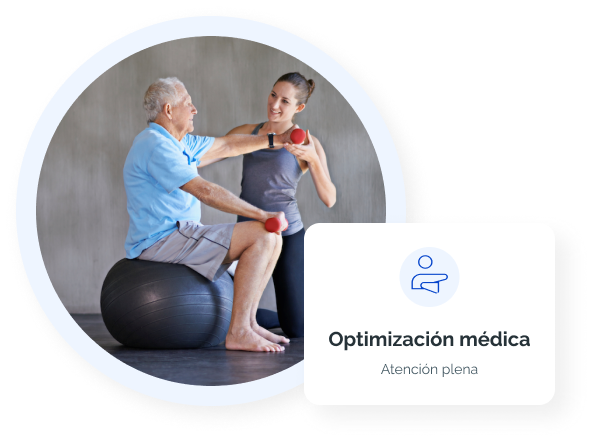
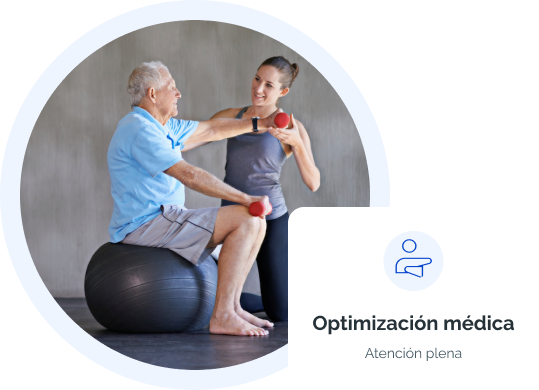
About us section responsive done, also adjust styles in navbar now ok

Changed region(s): [[0.0297, 0.0308, 0.9499, 0.9538], [0.6827, 0.5538, 0.8015, 0.7077], [0.6827, 0.8923, 0.8609, 0.9231]]

diff --git a/pages/LandinPage.jsx b/pages/LandinPage.jsx
@@ -1,16 +1,18 @@
 import NavBar from "@/components/NavBar";
+import HeroCard from "@/components/HeroCard";
 import clsx from "clsx";
 
 export default function LandinPage() {
   return (
-    <main className="bg-background h-screen w-screen">
+    <main className="bg-background h-full w-full">
       <NavBar />
       <section
         id="Hero-Section-1"
         className={clsx(
           "sm:flex sm:flex-row  min-[980px]:justify-between",
-          "px-4 pt-5",
-          "sm:px-14 min-[980px]:px-20"
+          "px-4 pt-5 pb-4",
+          "sm:px-14 min-[980px]:px-20",
+          "lg:max-w-[1440px] lg:m-auto"
         )}
       >
         <div
@@ -19,7 +21,7 @@ export default function LandinPage() {
         >
           <div className={clsx("flex flex- col justify-between items-center")}>
             <div className={clsx("min-[980px]:max-w-[910px]")}>
-              <span
+              <h1
                 className={clsx(
                   "font-semibold text-green_title text-[20px] tracking-[2px]",
                   "sm:text-[38px] sm:tracking-[4px]",
@@ -27,8 +29,8 @@ export default function LandinPage() {
                 )}
               >
                 El perfecto aliado para{" "}
-              </span>
-              <span
+              </h1>
+              <h1
                 className={clsx(
                   "font-extrabold text-blue_button text-[20px] tracking-[2px]",
                   "sm:text-[38px] sm:tracking-[4px]",
@@ -36,7 +38,7 @@ export default function LandinPage() {
                 )}
               >
                 administrar tu Consultorio
-              </span>
+              </h1>
             </div>
             <img
               className={clsx("drop-shadow-md", "max-h-[136px]", "sm:hidden")}
@@ -97,7 +99,7 @@ export default function LandinPage() {
           src="assets/img-doctor-heroSection.png"
           alt="doctor-image"
         />
-        <button
+        {/* <button
           className={clsx(
             "hidden min-[980px]:block",
             "text-white font-semibold text-[14px]",
@@ -107,13 +109,13 @@ export default function LandinPage() {
           )}
         >
           ¡Comienza ahora!
-        </button>
+        </button> */}
       </section>
       <section
         id="Hero-Section-2"
         className={clsx(
           "flex flex-col items-center gap-2",
-          "px-4 pt-5",
+          "px-4 py-4",
           "sm:px-14 min-[980px]:px-20",
           "divide-y-2 divide-green_button"
         )}
@@ -142,6 +144,132 @@ export default function LandinPage() {
           >
             Simplifica el seguimiento y la gestión de casos médicos
           </span>
+        </div>
+      </section>
+      <section
+        id="Hero-Section-3"
+        className={clsx(
+          "px-4 py-4 sm:px-14 min-[980px]:px-20",
+          "flex flex-col gap-5 sm:flex-row sm:justify-center"
+        )}
+      >
+        <HeroCard
+          name={"Expediente Médico"}
+          description={
+            "Digitaliza el Expediente Medico de tus pacientes y accede a él en cualquier momento"
+          }
+          icon={"assets/icons/newspaper-icon.svg"}
+        />
+        <HeroCard
+          name={"Agenda"}
+          description={
+            "Genera y visualiza tus citas, así como tus pacientes sin peder ningún detalle"
+          }
+          icon={"assets/icons/calendar-icon.svg"}
+        />
+        <HeroCard
+          name={"Tratamiento"}
+          description={
+            "Comparte los tratamientos con tus pacientes que podrán visualizar desde su perfil."
+          }
+          icon={"assets/icons/medkit-icon.svg"}
+        />
+      </section>
+      <section
+        id="about-us"
+        className={clsx("flex flex-col items-center", "py-4")}
+      >
+        <h2
+          className={clsx(
+            "text-xl text-green_title tracking-[2px] font-semibold pt-4 pb-5",
+            "sm:text-[38px]"
+          )}
+        >
+          Sobre Nosotros
+        </h2>
+        <div className={clsx("bg-white w-full", "lg:flex lg:justify-center")}>
+          <div
+            className={clsx(
+              "flex flex-col items-center",
+              "px-4 py-8 sm:px-14 min-[980px]:px-20",
+              "min-[980px]:flex-row lg:max-w-[1280px]"
+            )}
+          >
+            <div
+              className={clsx(
+                "flex flex-col items-center gap-4",
+                "min-[980px]:max-w-[679px] "
+              )}
+            >
+              <div className={clsx("text-center")}>
+                <span
+                  className={clsx(
+                    "text-[14px] sm:text-base min-[980px]:text-[22px] text-blue_button font-medium"
+                  )}
+                >
+                  Kode
+                </span>
+                <span
+                  className={clsx(
+                    "text-[14px] sm:text-base min-[980px]:text-[22px] text-blue_button font-bold"
+                  )}
+                >
+                  Clinic{" "}
+                </span>
+                <span
+                  className={clsx(
+                    "text-[14px] sm:text-base min-[980px]:text-[22px] text-blue_gray-700 font-medium"
+                  )}
+                >
+                  es una plataforma diseñada para especialistas del sector salud
+                  con herramientas que les ayudan a administrar la documentación
+                  de sus pacientes
+                </span>
+              </div>
+              <span
+                className={clsx(
+                  "text-[14px] sm:text-base min-[980px]:text-[22px] text-blue_gray-700 font-medium text-center"
+                )}
+              >
+                Actualmente contamos con el Módulo de Fisioterápia y seguimos
+                trabajando para poner a tu disposición muchos otros
+              </span>
+              <span
+                className={clsx(
+                  "text-[14px] sm:text-base min-[980px]:text-[22px] text-blue_gray-700 font-bold text-center"
+                )}
+              >
+                ¿Qué esperas? Registrate y forma parte de la comunidad
+              </span>
+
+              <button
+                className={clsx(
+                  "text-blue_button font-semibold text-[14px] min-[980px]:text-xl",
+                  "border-2 border-blue_button rounded-full",
+                  "max-w-[327px] px-4 py-2 max-h-[40px] sm:max-h-[140px] min-[980px]:max-h-[198px]",
+                  "sm:max-w-[156px] min-[980px]:max-w-[222px]"
+                )}
+              >
+                ¡Comienza ahora!
+              </button>
+            </div>
+            <div className={clsx("py-4 pl-5")}>
+              <img
+                className={clsx("max-h-[188px] drop-shadow-md", "sm:hidden")}
+                src="assets/img-aboutUsSection-mobile.png"
+                alt="sobre nosotros"
+              />
+              <img
+                className={clsx(
+                  "max-h-[300px] drop-shadow-md",
+                  "hidden sm:block",
+                  "min-[980px]:min-w-[539px] min-[980px]:min-h-[390px]"
+                )}
+                src="assets/img-aboutUsSection.png"
+                alt="sobre nosotros"
+              />
+            </div>
+          </div>
         </div>
       </section>
     </main>

diff --git a/components/HeroCard.jsx b/components/HeroCard.jsx
@@ -1,0 +1,36 @@
+import clsx from "clsx";
+import React from "react";
+
+export default function HeroCard({ name, description, icon }) {
+  return (
+    <div
+      className={clsx(
+        "bg-white drop-shadow-md",
+        "flex flex-row gap-5 items-center justify-center",
+        "sm:flex-col px-4 sm:px-[17px] sm:items-start sm:justify-start",
+        "min-[980px]:flex-row min-[980px]:items-center min-[980px]:px-8",
+        "min-[980px]:max-w-[380px]",
+        "py-5 rounded-2xl"
+      )}
+    >
+      <div>
+        <img className={clsx("h-[60px] min-w-[60px]")} src={icon} alt={name} />
+      </div>
+      <div
+        className={clsx(
+          "flex flex-col gap-[10px]",
+          "max-w-[223px] sm:max-w-[166px]"
+        )}
+      >
+        <span
+          className={clsx(
+            "text-[14px] font-bold sm:text-lg min-[980px]:text-xl"
+          )}
+        >
+          {name}
+        </span>
+        <span className={clsx("text-[14px] font-normal")}>{description}</span>
+      </div>
+    </div>
+  );
+}

diff --git a/components/NavBar.jsx b/components/NavBar.jsx
@@ -9,7 +9,8 @@ export default function NavBar() {
       <div
         className={clsx(
           "flex flex-col",
-          "min-[980px]:flex-row min-[980px]:justify-between"
+          "min-[980px]:flex-row min-[980px]:justify-between",
+          "lg:max-w-[1440px] lg:m-auto"
         )}
       >
         <div
